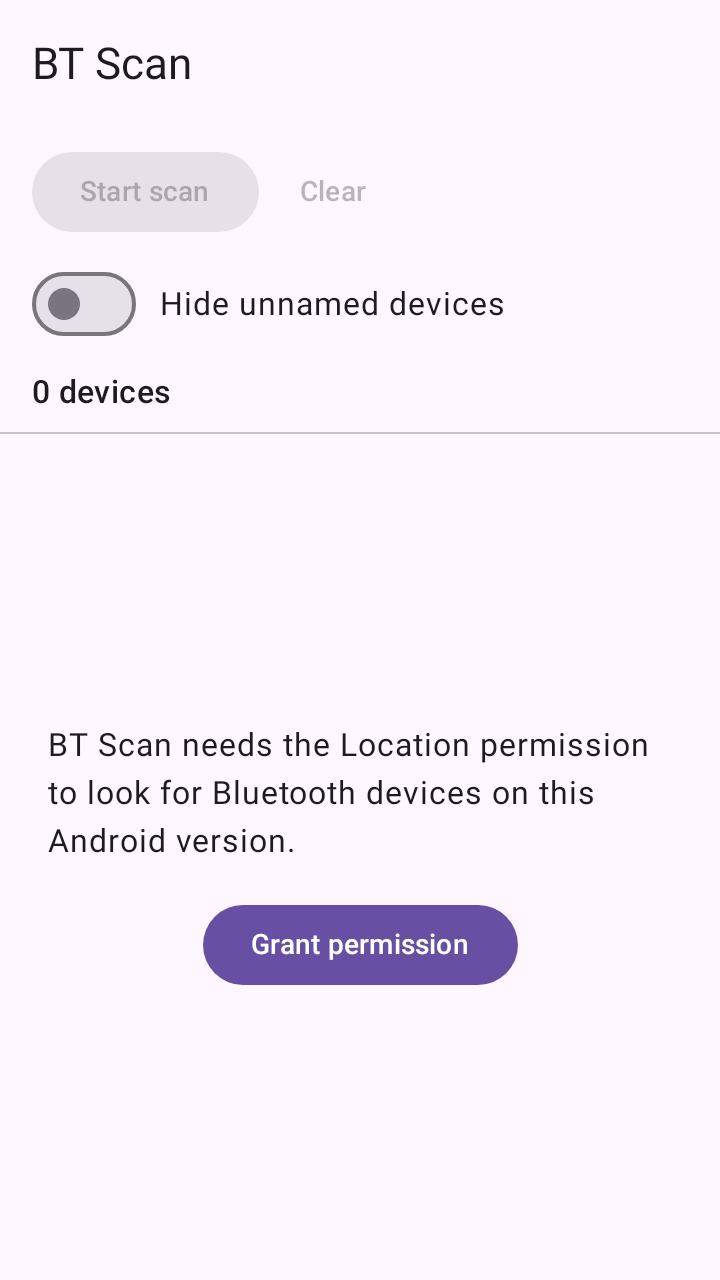
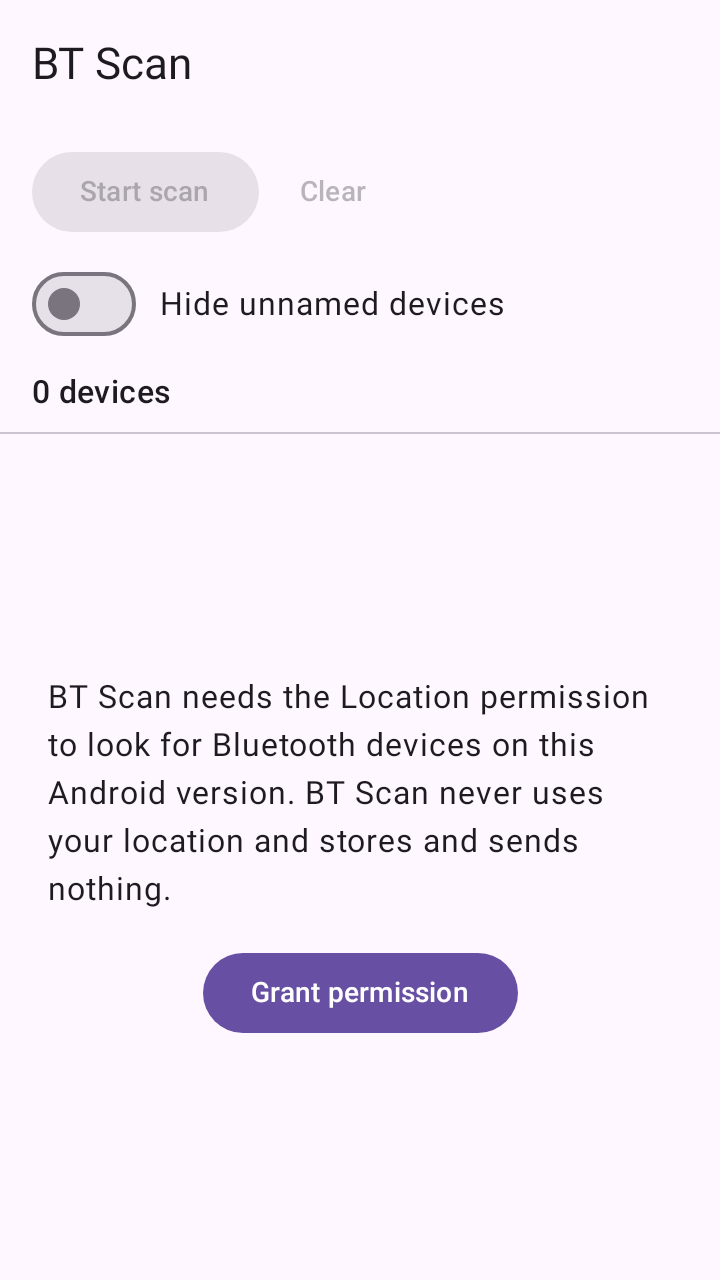
Drop neverForLocation: require Location so beacons and extended ads are visible (D-P2-8)
The X1 spike showed that on Android 17 neverForLocation hides iBeacon, Eddystone
and extended advertising from the app. Scanning now declares and requests
BLUETOOTH_SCAN plus precise and coarse location (Android 12+ ignores a fine-only
request), treats Location services off as a blocked state on every Android
version, and the permission and Location-off screens say why. ArchitectureTest
now fails if neverForLocation returns and allows ACCESS_COARSE_LOCATION; policy,
decisions, spec and findings docs updated. app.sh grants all permissions and
emu.sh switches location on for the throwaway AVD; the smoke test answers both
system dialogs. Verified on the emulator (smoke, full gate); not yet re-run on
the physical phone. No dependency added.

Changed region(s): [[0.0611, 0.5312, 0.8861, 0.8125]]

diff --git a/app/src/main/kotlin/dev/danielhood/btscan/data/ble/android/AndroidPermissionChecker.kt b/app/src/main/kotlin/dev/danielhood/btscan/data/ble/android/AndroidPermissionChecker.kt
@@ -8,25 +8,36 @@ import dev.danielhood.btscan.domain.model.PermissionState
 import dev.danielhood.btscan.domain.port.PermissionChecker
 
 /**
- * Reports the runtime permission a BLE scan needs: BLUETOOTH_SCAN on Android 12+, otherwise fine location
- * (the legacy requirement). Whether the OS will still show a prompt is only knowable from an Activity, so
- * [current] reports `canAskAgain = true`; the UI refines that after a denied request.
+ * Reports the runtime permissions a BLE scan needs. The manifest does not assert `neverForLocation` (decision D-P2-8),
+ * so on every Android version scan results need precise location; on Android 12+ they also need BLUETOOTH_SCAN.
+ *
+ * Android 12+ ignores a request for fine location unless coarse location is requested in the same call, so
+ * [requiredPermissions] (what the UI requests) includes coarse, while [current] only demands what scanning needs:
+ * a user who answers "approximate" has not granted enough and is asked again with an explanation.
+ * Whether the OS will still show a prompt is only knowable from an Activity, so [current] reports
+ * `canAskAgain = true`; the UI refines that after a denied request.
  */
 class AndroidPermissionChecker(
     private val context: Context,
 ) : PermissionChecker {
-    override val requiredPermissions: List<String> =
+    private val needed: List<String> =
         if (Build.VERSION.SDK_INT >= Build.VERSION_CODES.S) {
-            listOf(Manifest.permission.BLUETOOTH_SCAN)
+            listOf(Manifest.permission.BLUETOOTH_SCAN, Manifest.permission.ACCESS_FINE_LOCATION)
         } else {
             listOf(Manifest.permission.ACCESS_FINE_LOCATION)
         }
 
+    override val requiredPermissions: List<String> =
+        if (Build.VERSION.SDK_INT >=
+            Build.VERSION_CODES.S
+        ) {
+            needed + Manifest.permission.ACCESS_COARSE_LOCATION
+        } else {
+            needed
+        }
+
     override fun current(): PermissionState {
-        val allGranted =
-            requiredPermissions.all {
-                context.checkSelfPermission(it) == PackageManager.PERMISSION_GRANTED
-            }
+        val allGranted = needed.all { context.checkSelfPermission(it) == PackageManager.PERMISSION_GRANTED }
         return if (allGranted) PermissionState.Granted else PermissionState.Denied(canAskAgain = true)
     }
 }

diff --git a/app/src/test/kotlin/dev/danielhood/btscan/data/ble/android/AndroidAdapterStateMonitorTest.kt b/app/src/test/kotlin/dev/danielhood/btscan/data/ble/android/AndroidAdapterStateMonitorTest.kt
@@ -59,10 +59,13 @@ class AndroidAdapterStateMonitorTest {
     }
 
     @Test
-    fun `location is not required on android 12 and above`() {
+    fun `location off blocks scanning on android 12 and above too`() {
+        // The manifest does not assert neverForLocation (decision D-P2-8), so location services must be on everywhere.
         setBle(true)
         setAdapterOn(true)
         setLocation(false)
+        assertEquals(AdapterState.LOCATION_OFF, state())
+        setLocation(true)
         assertEquals(AdapterState.ON, state())
     }
 
@@ -78,11 +81,23 @@ class AndroidAdapterStateMonitorTest {
     }
 
     @Test
-    fun `bluetooth scan permission decides the permission state on android 12 and above`() {
+    fun `scan and fine location decide the permission state on android 12 and above`() {
         val checker = AndroidPermissionChecker(app)
-        assertEquals(listOf(Manifest.permission.BLUETOOTH_SCAN), checker.requiredPermissions)
+        // Coarse is requested too (Android 12+ ignores a fine-only request) but is not required to scan.
+        assertEquals(
+            listOf(
+                Manifest.permission.BLUETOOTH_SCAN,
+                Manifest.permission.ACCESS_FINE_LOCATION,
+                Manifest.permission.ACCESS_COARSE_LOCATION,
+            ),
+            checker.requiredPermissions,
+        )
         assertTrue(checker.current() is PermissionState.Denied)
         shadowOf(app).grantPermissions(Manifest.permission.BLUETOOTH_SCAN)
+        assertTrue("scan alone is not enough", checker.current() is PermissionState.Denied)
+        shadowOf(app).grantPermissions(Manifest.permission.ACCESS_COARSE_LOCATION)
+        assertTrue("approximate location is not enough", checker.current() is PermissionState.Denied)
+        shadowOf(app).grantPermissions(Manifest.permission.ACCESS_FINE_LOCATION)
         assertEquals(PermissionState.Granted, checker.current())
     }
 

diff --git a/app/src/test/kotlin/dev/danielhood/btscan/architecture/ArchitectureTest.kt b/app/src/test/kotlin/dev/danielhood/btscan/architecture/ArchitectureTest.kt
@@ -188,6 +188,7 @@ class ArchitectureTest {
                 "BLUETOOTH",
                 "BLUETOOTH_ADMIN",
                 "ACCESS_FINE_LOCATION",
+                "ACCESS_COARSE_LOCATION",
             )
         val manifests = File("src").walkTopDown().filter { it.name == "AndroidManifest.xml" }.toList()
         assertTrue("expected the main manifest, found: $manifests", manifests.any { it.path.contains("src/main/") })
@@ -207,7 +208,7 @@ class ArchitectureTest {
     }
 
     @Test
-    fun `legacy and scan permissions keep their restrictions`() {
+    fun `permissions keep the restrictions the policy decided`() {
         val manifest = File("src/main/AndroidManifest.xml").readText()
         val entries =
             Regex("""<uses-permission\s[^>]*?/>""", RegexOption.DOT_MATCHES_ALL)
@@ -217,9 +218,14 @@ class ArchitectureTest {
                 }.toList()
 
         fun entry(name: String) = entries.single { "android.permission.$name\"" in it }
-        assertTrue("scan must stay neverForLocation", "neverForLocation" in entry("BLUETOOTH_SCAN"))
-        listOf("BLUETOOTH", "BLUETOOTH_ADMIN", "ACCESS_FINE_LOCATION").forEach {
+        // Decision D-P2-8 (docs/phase2/x1-findings.md): neverForLocation hides iBeacon, Eddystone and extended
+        // advertising, so it is not asserted. Re-adding it must be a deliberate, documented change.
+        assertTrue("scan must not assert neverForLocation (D-P2-8)", "neverForLocation" !in entry("BLUETOOTH_SCAN"))
+        listOf("BLUETOOTH", "BLUETOOTH_ADMIN").forEach {
             assertTrue("$it must be limited to API 30 and below", "android:maxSdkVersion=\"30\"" in entry(it))
+        }
+        listOf("ACCESS_FINE_LOCATION", "ACCESS_COARSE_LOCATION").forEach {
+            assertTrue("$it is needed on every version, so it must not be capped", "maxSdkVersion" !in entry(it))
         }
     }
 }

diff --git a/app/src/main/kotlin/dev/danielhood/btscan/data/ble/android/AndroidAdapterStateMonitor.kt b/app/src/main/kotlin/dev/danielhood/btscan/data/ble/android/AndroidAdapterStateMonitor.kt
@@ -18,8 +18,9 @@ import kotlinx.coroutines.flow.callbackFlow
 import kotlinx.coroutines.flow.distinctUntilChanged
 
 /**
- * Reports whether BLE scanning can work: no hardware, adapter off, or (Android 11 and below only) system location
- * off. Re-evaluated on every Bluetooth state or location mode change broadcast.
+ * Reports whether BLE scanning can work: no hardware, adapter off, or system location off. Location must be on on every
+ * Android version because the manifest does not assert `neverForLocation` (decision D-P2-8). Re-evaluated on every
+ * Bluetooth state or location mode change broadcast.
  */
 class AndroidAdapterStateMonitor(
     private val context: Context,
@@ -49,7 +50,7 @@ class AndroidAdapterStateMonitor(
         return when {
             !hasBle || adapter == null -> AdapterState.UNSUPPORTED
             adapter.state != BluetoothAdapter.STATE_ON -> AdapterState.OFF
-            Build.VERSION.SDK_INT < Build.VERSION_CODES.S && !isLocationEnabled() -> AdapterState.LOCATION_OFF
+            !isLocationEnabled() -> AdapterState.LOCATION_OFF
             else -> AdapterState.ON
         }
     }

diff --git a/app/src/androidTest/kotlin/dev/danielhood/btscan/RealScannerOnDeviceTest.kt b/app/src/androidTest/kotlin/dev/danielhood/btscan/RealScannerOnDeviceTest.kt
@@ -33,11 +33,17 @@ class RealScannerOnDeviceTest {
     @get:Rule
     val permission: GrantPermissionRule =
         GrantPermissionRule.grant(
-            if (Build.VERSION.SDK_INT >= Build.VERSION_CODES.S) {
-                Manifest.permission.BLUETOOTH_SCAN
-            } else {
-                Manifest.permission.ACCESS_FINE_LOCATION
-            },
+            *(
+                if (Build.VERSION.SDK_INT >= Build.VERSION_CODES.S) {
+                    arrayOf(
+                        Manifest.permission.BLUETOOTH_SCAN,
+                        Manifest.permission.ACCESS_FINE_LOCATION,
+                        Manifest.permission.ACCESS_COARSE_LOCATION,
+                    )
+                } else {
+                    arrayOf(Manifest.permission.ACCESS_FINE_LOCATION)
+                }
+            ),
         )
 
     private val context: Context = ApplicationProvider.getApplicationContext()

diff --git a/app/src/androidTest/kotlin/dev/danielhood/btscan/MainActivityTest.kt b/app/src/androidTest/kotlin/dev/danielhood/btscan/MainActivityTest.kt
@@ -24,11 +24,17 @@ class MainActivityTest {
     @get:Rule(order = 0)
     val permission: GrantPermissionRule =
         GrantPermissionRule.grant(
-            if (Build.VERSION.SDK_INT >= Build.VERSION_CODES.S) {
-                Manifest.permission.BLUETOOTH_SCAN
-            } else {
-                Manifest.permission.ACCESS_FINE_LOCATION
-            },
+            *(
+                if (Build.VERSION.SDK_INT >= Build.VERSION_CODES.S) {
+                    arrayOf(
+                        Manifest.permission.BLUETOOTH_SCAN,
+                        Manifest.permission.ACCESS_FINE_LOCATION,
+                        Manifest.permission.ACCESS_COARSE_LOCATION,
+                    )
+                } else {
+                    arrayOf(Manifest.permission.ACCESS_FINE_LOCATION)
+                }
+            ),
         )
 
     @get:Rule(order = 1)

diff --git a/app/src/main/kotlin/dev/danielhood/btscan/ui/list/DeviceListUiState.kt b/app/src/main/kotlin/dev/danielhood/btscan/ui/list/DeviceListUiState.kt
@@ -20,7 +20,7 @@ sealed interface ListStatus {
 
     data object BluetoothOff : ListStatus
 
-    /** Android 11 and below only: scanning needs system location switched on. */
+    /** Scanning needs system location switched on (all Android versions; decision D-P2-8). */
     data object LocationOff : ListStatus
 
     /** No BLE hardware. */

diff --git a/app/src/main/kotlin/dev/danielhood/btscan/domain/model/Environment.kt b/app/src/main/kotlin/dev/danielhood/btscan/domain/model/Environment.kt
@@ -6,7 +6,7 @@ enum class AdapterState {
     OFF,
     ON,
 
-    /** Adapter on, but system location is off (only matters on Android 11 and below). */
+    /** Adapter on, but system location is off: Android hides scan results without it (see decision D-P2-8). */
     LOCATION_OFF,
 }
 

diff --git a/docs/phase2/policy-and-guardrails.md b/docs/phase2/policy-and-guardrails.md
@@ -17,6 +17,7 @@
 
 | Phase 1 rule (AGENTS.md / tests) | Tier 1 | Tier 2 | Tier 3 |
 |---|---|---|---|
+| `BLUETOOTH_SCAN` asserts `neverForLocation` (Phase 1) | **relaxed (D-P2-8):** not asserted; Location permission and Location services are required to scan | unchanged | unchanged |
 | Never request `BLUETOOTH_CONNECT` | unchanged | **relaxed:** allowed in the manifest and in `data/ble/android` | unchanged from Tier 2 |
 | Never call `connectGatt` | unchanged | unchanged | **relaxed:** allowed in exactly one file, `data/ble/android/AndroidGattInspector.kt` |
 | `android.bluetooth.*` only under `data/ble/android` | unchanged | unchanged | unchanged |
@@ -37,7 +38,7 @@ All checks extend the existing `ArchitectureTest` (import and text scanning, no 
 | Forbid pairing and bond changes | **Done (X2)** | No `createBond`, `removeBond`, `setPin`, `setPairingConfirmation`, `cancelBondProcess` |
 | Forbid reflection into Bluetooth internals | **Done (X2)** | No `getDeclaredMethod`/`getMethod`/`Class.forName` in files under `data/ble` or that import `android.bluetooth` |
 | Decoders and parsers are pure | Tier 1 | Files under `domain/decode` and `domain/gatt/parsers` import no `android.*` (already covered by the domain rule; add an explicit test so a future package move cannot escape it) |
-| Manifest permissions are an explicit allowlist | **Done (X2)**, updated per tier | The manifest test asserts the *exact set* of requested permissions instead of only forbidding some. Tier 1: unchanged set. Tier 2 adds `BLUETOOTH_CONNECT` (API 31+). A new permission fails the test until the policy doc and the test are updated together. |
+| Manifest permissions are an explicit allowlist | **Done (X2)**, updated per tier | The manifest test asserts the *exact set* of requested permissions instead of only forbidding some. Tier 1 (decision D-P2-8, 2026-11-14): adds `ACCESS_COARSE_LOCATION` and makes `ACCESS_FINE_LOCATION` unrestricted (the scan needs both on every version, `neverForLocation` is no longer asserted; the test fails if it comes back). Tier 2 adds `BLUETOOTH_CONNECT` (API 31+). A new permission fails the test until the policy doc and the test are updated together. |
 | `connectGatt` confined | Tier 3 | Allowed only in `AndroidGattInspector.kt`; the Tier 2 "forbidden everywhere" check is narrowed in the same commit |
 | `writeDescriptor` confined | Tier 3 v2 | Only in the file containing the notification helper, and only referencing the CCCD constant `0x2902` |
 | Logging hygiene | Tier 2 | In `src/main` and `src/release`, `AppLog`/`Log` calls must not interpolate `address`, `name`, `serial`, `value` or `rawBytes` identifiers. Implemented as a text rule on log call arguments (simple, conservative, with an allowlisted escape comment for justified cases). Debug-only code (`src/debug`) is exempt. |
@@ -50,6 +51,8 @@ A new test, `PolicyDocConsistencyTest`, is optional but recommended: it reads th
 ## 4. Consent and user-facing wording
 
 Wording is part of the safety design and lives in one string resources file so it can be reviewed in one place. Draft copy (owner to approve before Tier 2c/3 ship):
+
+**Scan permissions (Tier 1, in the app now)** "BT Scan needs the Nearby devices and Location permissions to look for Bluetooth devices around you. Choose precise location when asked: Android counts Bluetooth scan results as location data. BT Scan never uses your location and stores and sends nothing." The wording must stay true: the no-persistence and no-network checks are what back the last sentence.
 
 **Permission explanation (Tier 2a)** "To show what your phone already knows about this device (its name, whether it is paired, and its type), the app needs the Nearby devices permission for connecting. Scanning works without it. The app never pairs with, connects to or changes any device in this step."
 

diff --git a/docs/decisions.md b/docs/decisions.md
@@ -82,14 +82,16 @@ Why: most nearby devices advertise via BLE; advertisement data gives rich detail
 
 | API level | Manifest permissions | Notes |
 |---|---|---|
-| 31+ | `BLUETOOTH_SCAN` with `usesPermissionFlags="neverForLocation"` | Runtime prompt: "Nearby devices" |
+| 31+ | `BLUETOOTH_SCAN` (no `neverForLocation`, see the update below), `ACCESS_FINE_LOCATION` and `ACCESS_COARSE_LOCATION` | Two runtime prompts: "Nearby devices" and Location (Android 12+ ignores a fine-location request unless coarse is requested with it). Location *services* must be on. |
 | 26 to 30 | `BLUETOOTH`, `BLUETOOTH_ADMIN` (both `maxSdkVersion="30"`), `ACCESS_FINE_LOCATION` | Location *services* must also be switched on or scans silently return nothing |
 
 Plus `<uses-feature android:name="android.hardware.bluetooth_le" android:required="false"/>` so the app installs on emulators and degrades to an "unsupported" state rather than being filtered out.
 
 The device name is read from the advertisement bytes (AD types 0x08/0x09), **not** from `BluetoothDevice.getName()`, which needs `BLUETOOTH_CONNECT` on API 31+. This keeps the permission prompt to one item and matches the "never connect" requirement.
 
-Trade-off: `neverForLocation` makes the OS filter out some beacon-style advertisements. Acceptable for this POC; documented in the spec.
+Original trade-off: `neverForLocation` makes the OS filter out some beacon-style advertisements. Acceptable for this POC; documented in the spec.
+
+**Update 2026-11-14 (D-P2-8): `neverForLocation` was dropped.** The real-radio spike ([phase2/x1-findings.md](phase2/x1-findings.md)) showed that on Android 17 it hides iBeacon, Eddystone and extended advertising (and with them 2M/Coded PHY, set id and periodic interval) from the app, which are most of what Tier 1 decodes. The price: the scan now needs Location permission (precise) and Location services on, on every Android version, and the permission explanation says so. The app still never uses, stores or sends a location; scan data is not persisted or transmitted (policy doc). `ArchitectureTest` fails if the flag is added back without updating this record.
 
 ## D10. Parse raw advertisement bytes with our own pure-Kotlin parser
 

diff --git a/docs/phase2/x1-findings.md b/docs/phase2/x1-findings.md
@@ -28,7 +28,7 @@ Control: same build with `neverForLocation` removed and `ACCESS_FINE_LOCATION` g
 
 So on Android 17, `neverForLocation` hides **iBeacon, Eddystone and extended advertising** from the app. It does not hide AltBeacon, manufacturer data in general (Ruuvi), service data in general (BTHome), Fast Pair or Apple frames (real neighbours show Apple and Fast Pair chips). Consequences if the flag stays: the iBeacon, Eddystone and distance features can only be seen through the fake scanner, and the Radio section can never show 2M or Coded PHY, a set id or a periodic interval for real devices.
 
-## Decision needed: D-P2-8
+## Decision D-P2-8 (decided 2026-11-14: option B, remove `neverForLocation`)
 
 | Option | Effect |
 |---|---|
@@ -36,7 +36,7 @@ So on Android 17, `neverForLocation` hides **iBeacon, Eddystone and extended adv
 | **B. Remove it** | Android 12+ also needs the Location permission (and Location services on) to deliver scan results; the manifest allowlist test and the policy doc change together; the permission screen explains both. Everything Tier 1 decodes becomes visible. The app still stores and sends nothing. |
 | C. Build flavour with and without | Both worlds, more build and test surface than a POC needs. |
 
-Recommended: B, because beacons and radio metadata are most of Tier 1's value and the app never persists or transmits scan data. Not changed yet; waiting for the owner.
+Recommended and chosen: B, because beacons and radio metadata are most of Tier 1's value and the app never persists or transmits scan data. Implemented the same day: manifest, permission checker (Location requested with Nearby devices), Location-off state on every Android version, wording, guardrail test, smoke script and docs.
 
 ## Bug found by the spike (fixed)
 

diff --git a/docs/phase2/tier1-advertisement-decoding.md b/docs/phase2/tier1-advertisement-decoding.md
@@ -1,6 +1,6 @@
 # Tier 1: Advertisement Decoding
 
-**Status:** T1-M1 to T1-M4 done (2026-11-10); T1-M0 spike and T1-M5 not started. **Permissions:** none new (`BLUETOOTH_SCAN` with `neverForLocation`, as today). **Contacts the device:** never.
+**Status:** T1-M1 to T1-M4 done (2026-11-10); T1-M0 spike and T1-M5 not started. **Permissions:** decision D-P2-8 (2026-11-14) replaced `neverForLocation` with Location permission and Location services (see [x1-findings.md](x1-findings.md)). **Contacts the device:** never.
 
 ## 1. Goal
 
@@ -192,7 +192,7 @@ Tooling additions: `scripts/gen-oui.py` (only if T1-A2 proceeds); a vectors dire
 | Spec vectors mis-transcribed | Each vector cites its source; a second reading by an independent check (a human, or a separate agent session) before merging |
 | Decoder claims overreach | Confidence enum, wording file, review gate in T1-M3 |
 | Cost per advertisement | Perf check; short-circuit on company id/service UUID before decoding |
-| iBeacon/Eddystone are filtered by `neverForLocation` on Android 12+ (the OS may drop beacon-style advertisements for apps declaring it) | Verify on the Pixel with the X1 beacon; if beacons are filtered, this is the one case where removing `neverForLocation` (and requiring location) would be needed, which is an owner decision (see policy doc) |
+| iBeacon/Eddystone are filtered by `neverForLocation` on Android 12+ | **Confirmed on the Pixel (X1) and resolved: the flag was removed (D-P2-8).** |
 | Address type availability | Spike T1-S1 |
 
 Out of scope for Tier 1: any decoding that needs a key, any identification of individuals, scanning in the background, sending data anywhere.
